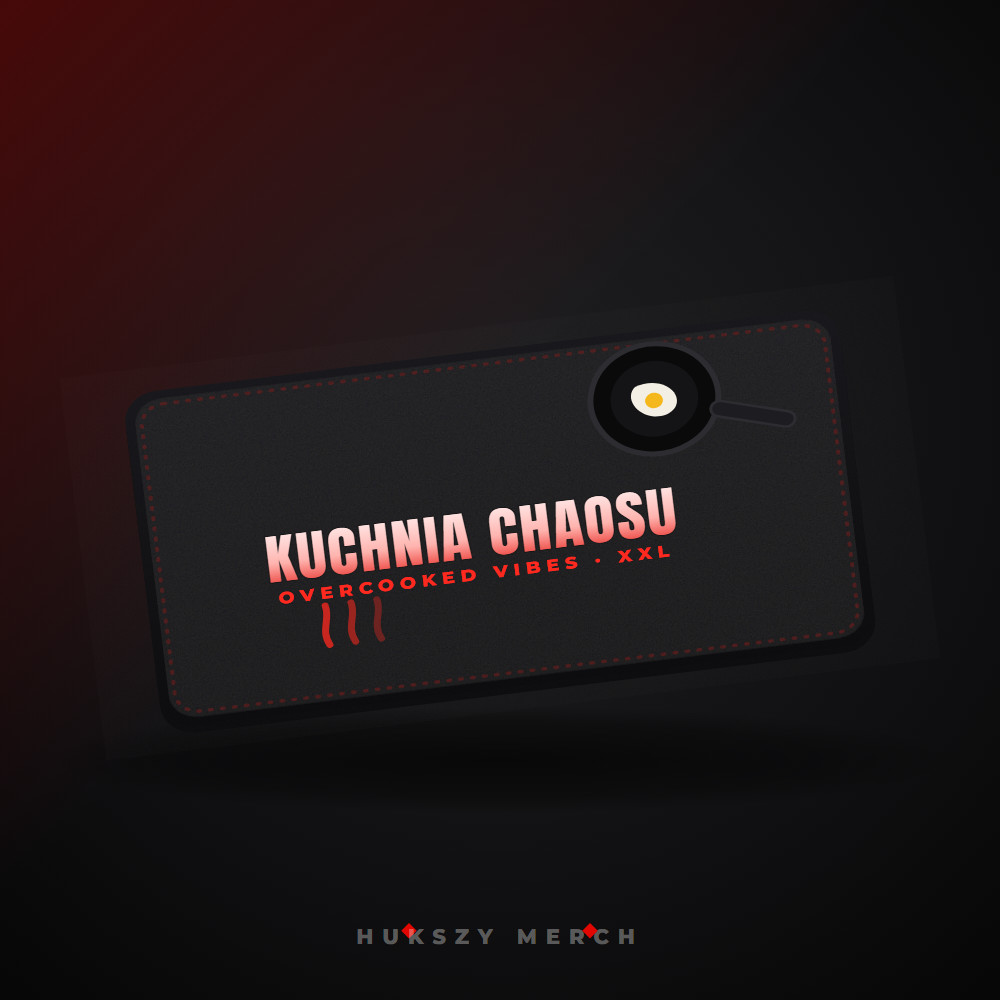
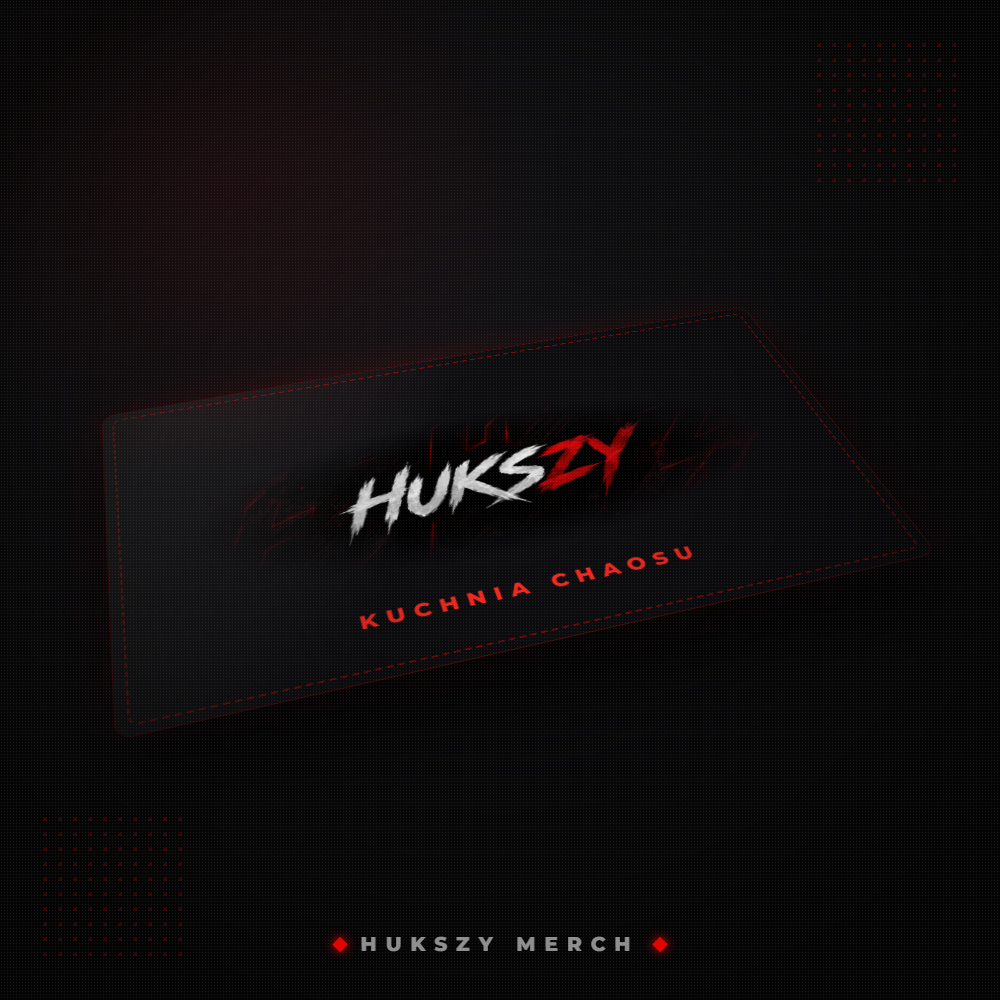
Sklep na prawdziwych zdjeciach produktow zamiast rysowanych wektorow
Bluza, koszulka i kubek to teraz zdjecia stockowe (Pexels, licencja
komercyjna) z nadrukiem prawdziwego logotypu kanalu w trybie mix-blend-mode:
screen - czarne tlo logo znika, a przez nadruk widac falcy materialu i
odbicia ceramiki, dokladnie jak przy sitodruku. Kadry dobrane pikselowo,
krawedzie nadruku wygaszone maska radialna, obce logo producenta na bluzie
zamalowane.

Snapback wymieniony na Plakat A2 - czapki nie dalo sie pokazac wiarygodnie
bez dobrego zdjecia, a plakat to nadruk plaski, wiec render wyglada realnie.
Podkladka, plakat i naklejki: rendery nadruku z prawdziwym logotypem.

diff --git a/site.config.ts b/site.config.ts
@@ -111,16 +111,20 @@ export const site = {
 
   /* ——— SKLEP / MERCH ————————————————————————————————————
      linkSklepu pusty = przycisk "Zobacz cały sklep" prowadzi do donate
-     (sklep w budowie). Grafiki: /public/assets/sklep — wygenerowane
-     mockupy do podmiany na zdjęcia realnych produktów.               */
+     (sklep w budowie).
+
+     Grafiki w /public/assets/sklep to MOCKUPY: bluza, koszulka i kubek
+     powstały ze zdjęć stockowych (Pexels, licencja komercyjna) z nadrukiem
+     logo w trybie `screen`, reszta to render nadruku. Po sesji zdjęciowej
+     realnego merchu podmieniasz pliki zachowując nazwy.                */
   sklep: {
     linkSklepu: "",
     produkty: [
       { id: "bluza", nazwa: "Bluza HUKSZYTV", cena: 199, obraz: "/assets/sklep/bluza-hukszytv.png", znaczek: "Nowość", opis: "Klasyk ekipy" },
       { id: "tee-habanero", nazwa: "Tee Habanero Challenge", cena: 89, obraz: "/assets/sklep/tee-habanero.png", znaczek: "", opis: "100 follow = 🌶 na żywo" },
-      { id: "kubek", nazwa: "Kubek Jumpscare Fuel", cena: 49, obraz: "/assets/sklep/kubek-jumpscare.png", znaczek: "Bestseller", opis: "Paliwo na horrory" },
+      { id: "kubek", nazwa: "Kubek z sygnetem", cena: 49, obraz: "/assets/sklep/kubek-jumpscare.png", znaczek: "Bestseller", opis: "Paliwo na horrory" },
       { id: "podkladka", nazwa: "Podkładka Kuchnia Chaosu", cena: 119, obraz: "/assets/sklep/podkladka-kuchnia.png", znaczek: "", opis: "Overcooked vibes, XXL" },
-      { id: "czapka", nazwa: "Snapback Grunge H", cena: 79, obraz: "/assets/sklep/czapka-h.png", znaczek: "", opis: "Sygnet na daszku" },
+      { id: "plakat", nazwa: "Plakat HUKSZY A2", cena: 59, obraz: "/assets/sklep/plakat-hukszy.png", znaczek: "", opis: "Logotyp na ścianę, 42×59 cm" },
       { id: "naklejki", nazwa: "Pakiet Naklejek Ekipy", cena: 19, obraz: "/assets/sklep/naklejki-ekipa.png", znaczek: "", opis: "12 sztuk na sprzęt" },
     ],
   },

diff --git a/public/assets/README.md b/public/assets/README.md
@@ -55,7 +55,11 @@ Miniatury do sekcji Highlights. Podpisy i linki ustawiasz w `site.config.ts` →
 
 | Plik | Status | Wymiary | Uwagi |
 |---|---|---|---|
-| `bluza-hukszytv.png` … `naklejki-ekipa.png` (6 szt.) | 🟨 | 1000×1000 | Wygenerowane mockupy produktów w stylu marki (nawiązania do gier ze streamów). Podmień na zdjęcia realnego merchu zachowując nazwy; podpisy i ceny w `site.config.ts` → `sklep`. |
+| `bluza-hukszytv.png`, `tee-habanero.png`, `kubek-jumpscare.png` | 🟨 | 1000×1000 | Mockupy na **prawdziwych zdjęciach** (Pexels, licencja komercyjna) z nadrukiem logo w trybie `screen` — nadruk układa się na fałdach materiału. |
+| `podkladka-kuchnia.png`, `plakat-hukszy.png`, `naklejki-ekipa.png` | 🟨 | 1000×1000 | Rendery nadruku (produkty płaskie). |
+
+Wszystkie do podmiany po sesji zdjęciowej realnego merchu — zachowaj nazwy plików,
+podpisy i ceny ustawisz w `site.config.ts` → `sklep`.
 
 ## og/
 
